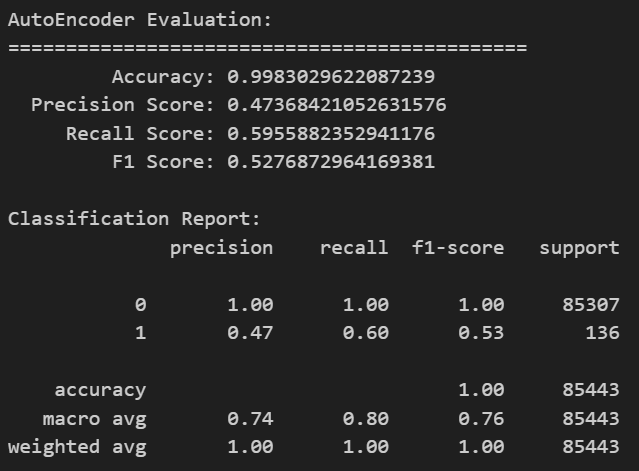
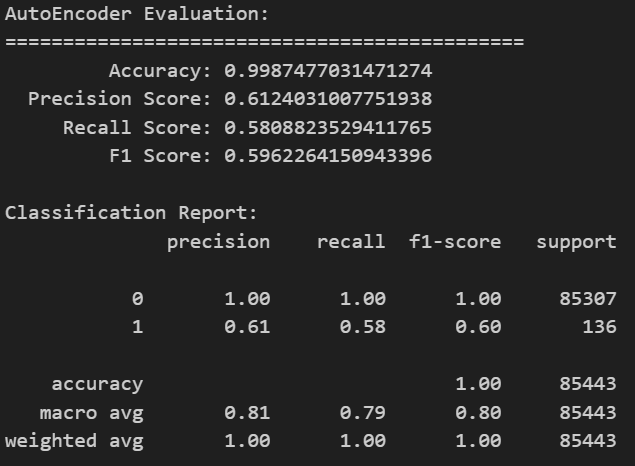
HW2-AE 0.6

diff --git a/ACS111111_ex1/ex1.md b/ACS111111_ex1/ex1.md
@@ -515,7 +515,82 @@ Classification Report:
    macro avg       0.74      0.80      0.76     85443
 weighted avg       1.00      1.00      1.00     85443
 ```
+#### 實驗4
 
+```
+input_dim = X_train.shape[1]
+encoding_dim = 18
+hidden_dim = int(encoding_dim / 2)
+
+autoencoder.fit(
+    X_train_auto, X_train_auto,
+    epochs=40,
+    batch_size=64,
+    shuffle=True,
+    validation_split=0.1,
+    verbose=1
+)
+
+threshold = np.percentile(mse, 99.8)
+```
+
+```
+AutoEncoder Evaluation:
+=============================================
+         Accuracy: 0.9983731844621561
+  Precision Score: 0.49122807017543857
+     Recall Score: 0.6176470588235294
+         F1 Score: 0.5472312703583062
+
+Classification Report:
+              precision    recall  f1-score   support
+
+           0       1.00      1.00      1.00     85307
+           1       0.49      0.62      0.55       136
+
+    accuracy                           1.00     85443
+   macro avg       0.75      0.81      0.77     85443
+weighted avg       1.00      1.00      1.00     85443
+```
+#### 實驗5
+
+(我把神經網路拆了: 3->5層)
+
+```
+# Encoder
+encoder = Dense(29, activation="tanh", activity_regularizer=regularizers.l1(1e-5))(
+    input_layer
+)
+encoder = Dense(17, activation="tanh")(encoder)
+encoder = Dense(8, activation="relu")(encoder)
+
+# Decoder
+decoder = Dense(17, activation="relu")(encoder)
+decoder = Dense(29, activation="tanh")(decoder)
+decoder = Dense(input_dim, activation="linear")(decoder)
+
+threshold = np.percentile(mse, 99.8)
+
+```
+
+```
+AutoEncoder Evaluation:
+=============================================
+         Accuracy: 0.9987477031471274
+  Precision Score: 0.6124031007751938
+     Recall Score: 0.5808823529411765
+         F1 Score: 0.5962264150943396
+
+Classification Report:
+              precision    recall  f1-score   support
+
+           0       1.00      1.00      1.00     85307
+           1       0.61      0.58      0.60       136
+
+    accuracy                           1.00     85443
+   macro avg       0.81      0.79      0.80     85443
+weighted avg       1.00      1.00      1.00     85443
+```
 
 ## 參考資料
 [Random forest 介紹](https://ithelp.ithome.com.tw/articles/10272586)
@@ -526,6 +601,8 @@ weighted avg       1.00      1.00      1.00     85443
 [XGBoost 參數調整參考](https://www.itread01.com/articles/1476146171.html)
 
 [Introduction to Boosted Trees](https://xgboost.readthedocs.io/en/latest/tutorials/model.html)
+
+[AE 介紹](https://medium.com/ml-note/autoencoder-%E4%B8%80-%E8%AA%8D%E8%AD%98%E8%88%87%E7%90%86%E8%A7%A3-725854ab25e8)
 
 ## 筆記區
 
@@ -539,5 +616,7 @@ weighted avg       1.00      1.00      1.00     85443
 
 關於PCA:  
 它轉折的地方在15~25那個區間，測試過後發現17的效果最好
-
 ![PCA](image-1.png)
+
+AutoEncoder架構圖(參考一下)
+![AE](image-3.png)
